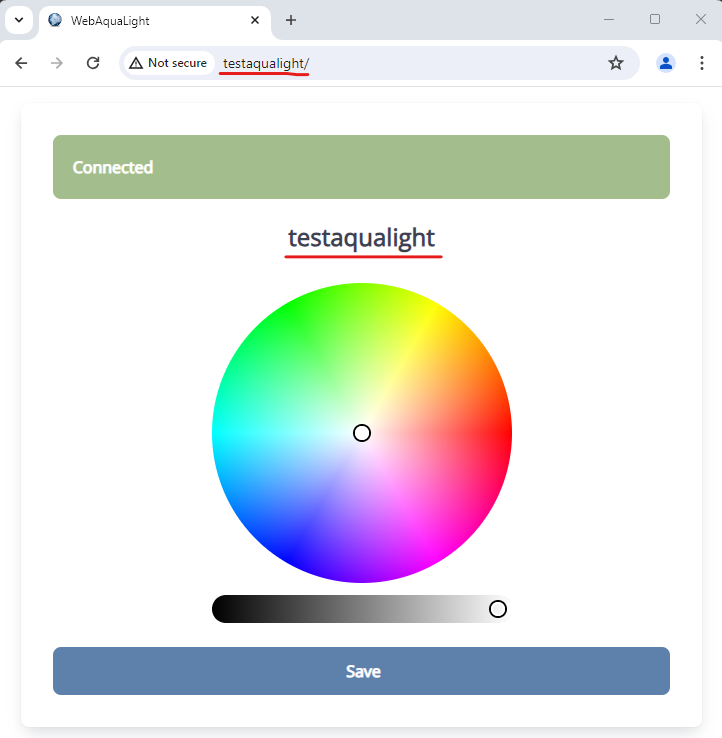
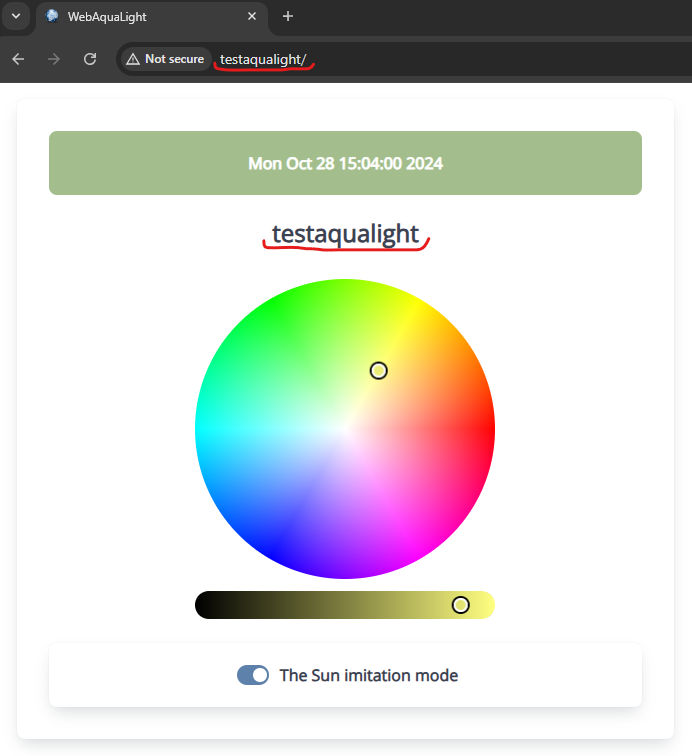
Updated the documentation.

diff --git a/README.md b/README.md
@@ -1,9 +1,9 @@
 # Web Aqua Light Project
 
 ## Requirements
-1. Python 3.x
-2. Git
-3. Visual Studio Code
+1. [Python 3.x](https://www.python.org)
+2. [Git](https://git-scm.com)
+3. [Visual Studio Code](https://code.visualstudio.com)
 
 ## Schematic
 ![Schematic](./docs/images/schematic.png)
@@ -35,7 +35,15 @@
 4. Enter the appropriate fields in the configuration form and click the "Save" button. The following web page with the next steps will be shown.
 ![Configuration complete](./docs/images/configuration-complete.png)
 5. During connection to the router the periodic blue color fade will be indicated on the LED strip. After a successful connection to the router, the rotating rainbow will be indicated on the LED strip.
-6. After the device is connected to the router open the browser and enter the site name you entered in the configuration web page. The following web page will be shown and you can control the color and brightness of the LED strip.
+6. After the device is connected to the router open the browser and enter the site name you entered in the configuration web page. The following web page will be shown and you can control the color and brightness of the LED strip. You can also enable the Sun imitation mode. In this mode, the device synchronizes the date/time via the Internet, calculates the sunrise/sundown times, and sets the color/brightness according to the Sun's position in the sky.
 ![WebAquaLight](./docs/images/webaqualight.png)
 
 7. For Android devices, the "mDNS Discovery" application can be used to discover the device in the network and avoid the knowledge of the exact device IP address. During the discovery process, the application will show the site name entered in the configuration web page.
+
+## Resources
+- The HTTP server with WebSockets [article](https://lujji.github.io/blog/esp-httpd).
+- The captive portal [basics](https://en.wikipedia.org/wiki/Captive_portal).
+- A minimal and themeable css [toolkit](https://siimple.xyz).
+- Modular, design-conscious color picker [widget](https://iro.js.org) for JavaScript.
+- A JavaScript charting [library](http://smoothiecharts.org) for streaming sata.
+- The Chrome as a local web server [tips](./docs/chrome-devtools.md).

diff --git a/docs/chrome-devtools.md b/docs/chrome-devtools.md
@@ -1,0 +1,18 @@
+# Chrome as a Local Web Server
+The Chrome Developer Tools can be used as a versatile tool for web development. They allow overriding resources used by web pages and replacing them with the own local resources. Any change made to local web page source file is reflected live in the web browser.
+
+The Chrome local override feature can be used to create a web server to serve static web pages. And name can be used as the domain name of the web server. Even if the domain name already exists, Chrome will serve pages from the local web server if the requested page or resource exists.
+
+# Developing the device's Web interface
+1. Load the Chrome and open Developer Tools window by pressing F12.
+2. Click "Sources" tab and then select "Overrides" sub-tab on the left navigation panel.
+3. Click "+ Select folder for overrides".
+4. In the folder selection dialog, select [fsdata](../main/http/server/fsdata) as the root of all overrides.
+5. When Chrome asks to confirm access, click "Allow" to let Chrome access the folder contents.
+6. The folder and contents should appear in the navigation panel.
+7. In the browser window enter "fs/" to the address string.
+8. The device's web page should appear.
+9. Modify the web page source in the "Sources" tab.
+10. Save the modifications.
+11. Click "Refresh" button in the browser.
+12. The modified device's web page should appear.
